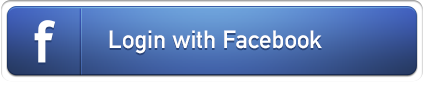
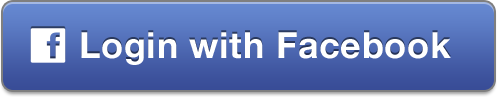
iPhone 5/6 final adjustments before Release

diff --git a/ski greece/ViewControllers/LoginScreen/PAPLogInViewController.m b/ski greece/ViewControllers/LoginScreen/PAPLogInViewController.m
@@ -26,11 +26,12 @@
     
     
     // There is no documentation on how to handle assets with the taller iPhone 5 screen as of 9/13/2012
-    if ([UIScreen mainScreen].bounds.size.height > 568.0f) {
+    //if ([UIScreen mainScreen].bounds.size.height > 568.0f) {
+    if (IS_IPHONE_6) {
         // for the iPhone 6
         if (IS_DEVELOPER) NSLog(@"iPhone 6 device");
         self.view.backgroundColor = [UIColor colorWithPatternImage:[UIImage imageNamed:@"BackgroundLogin-667h.png"]];
-    } else if ([UIScreen mainScreen].bounds.size.height > 480.0f) {
+    } else if (IS_IPHONE_5) {
         // for the iPhone 5
         if (IS_DEVELOPER) NSLog(@"iPhone 5 device");
         self.view.backgroundColor = [UIColor colorWithPatternImage:[UIImage imageNamed:@"BackgroundLogin-568h.png"]];
@@ -66,7 +67,17 @@
 
 -(void)viewDidLayoutSubviews {
     [super viewDidLayoutSubviews];
-    self.logInView.facebookButton.frame = CGRectMake(self.logInView.facebookButton.frame.origin.x, 330.0f, self.logInView.facebookButton.frame.size.width, self.logInView.facebookButton.frame.size.height);
+    
+    if (IS_IPHONE_6) {
+       self.logInView.facebookButton.frame = CGRectMake(self.logInView.facebookButton.frame.origin.x, 330.0f, self.logInView.facebookButton.frame.size.width, self.logInView.facebookButton.frame.size.height);
+    } else if (IS_IPHONE_5) {
+        self.logInView.facebookButton.frame = CGRectMake(self.logInView.facebookButton.frame.origin.x, 310.0f, self.logInView.facebookButton.frame.size.width, self.logInView.facebookButton.frame.size.height);
+        [self.logInView.facebookButton setImage:nil forState:UIControlStateNormal];
+        [self.logInView.facebookButton setBackgroundImage:[UIImage imageNamed:@"fb_button.png"] forState:UIControlStateNormal];
+        //self.logInView.facebookButton.hidden = YES;
+    }
+    
+    [self.logInView.facebookButton setTitle:@"" forState:UIControlStateNormal];
     
     if (IS_DEVELOPER) NSLog(@"Facebook button is %@ . Frame is (%f,%f,%f,%f) ", (self.logInView.facebookButton.hidden) ? @"Hidden" : @"Visible",self.logInView.facebookButton.frame.origin.x, self.logInView.facebookButton.frame.origin.y, self.logInView.facebookButton.frame.size.width, self.logInView.facebookButton.frame.size.height);
 }

diff --git a/ski greece/ViewControllers/LoginScreen/LoginViewController.m b/ski greece/ViewControllers/LoginScreen/LoginViewController.m
@@ -39,7 +39,7 @@
              forControlEvents:UIControlEventTouchUpInside];
     [_loginFBButton setTitle:@"Login via FB" forState:UIControlStateNormal];
     _loginFBButton.frame = CGRectMake(80.0, 210.0, 160.0, 40.0);
-    [self.view addSubview:_loginFBButton];
+    //[self.view addSubview:_loginFBButton];
 }
 
 - (void)didReceiveMemoryWarning {
